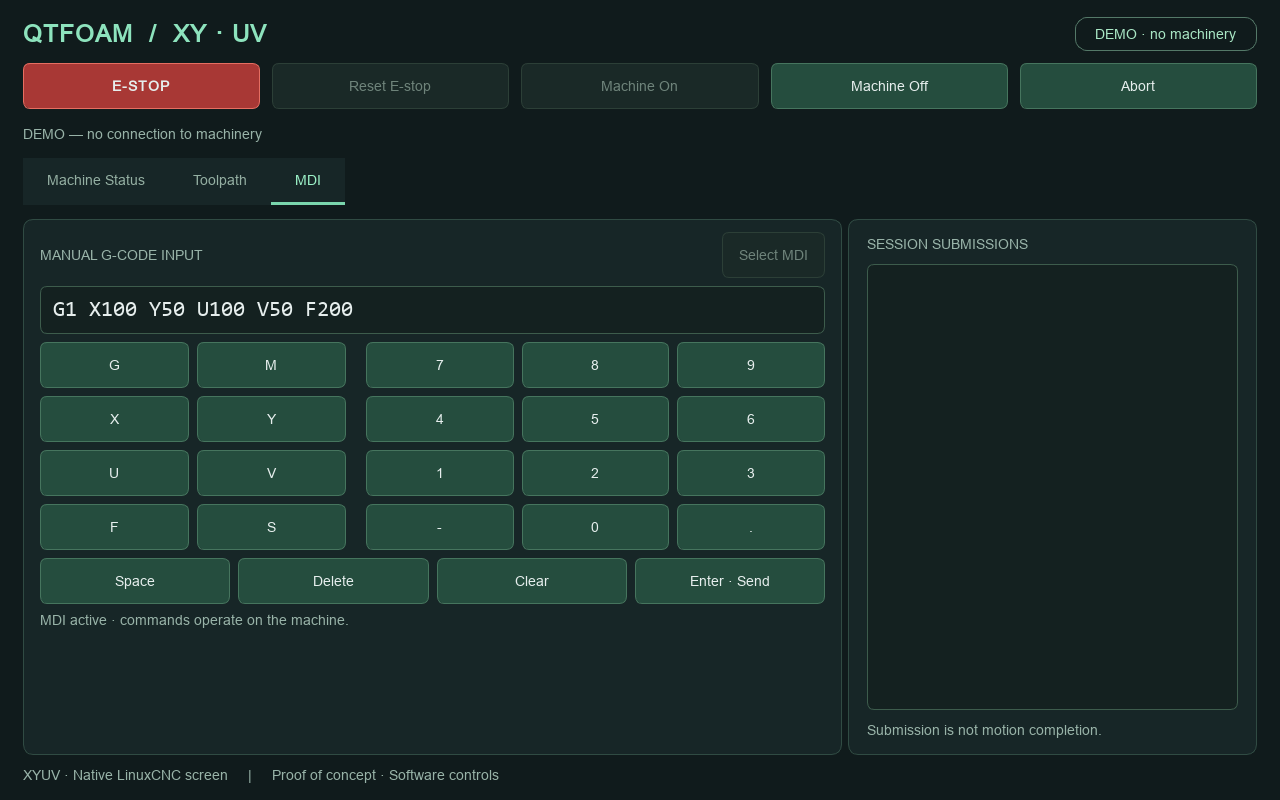
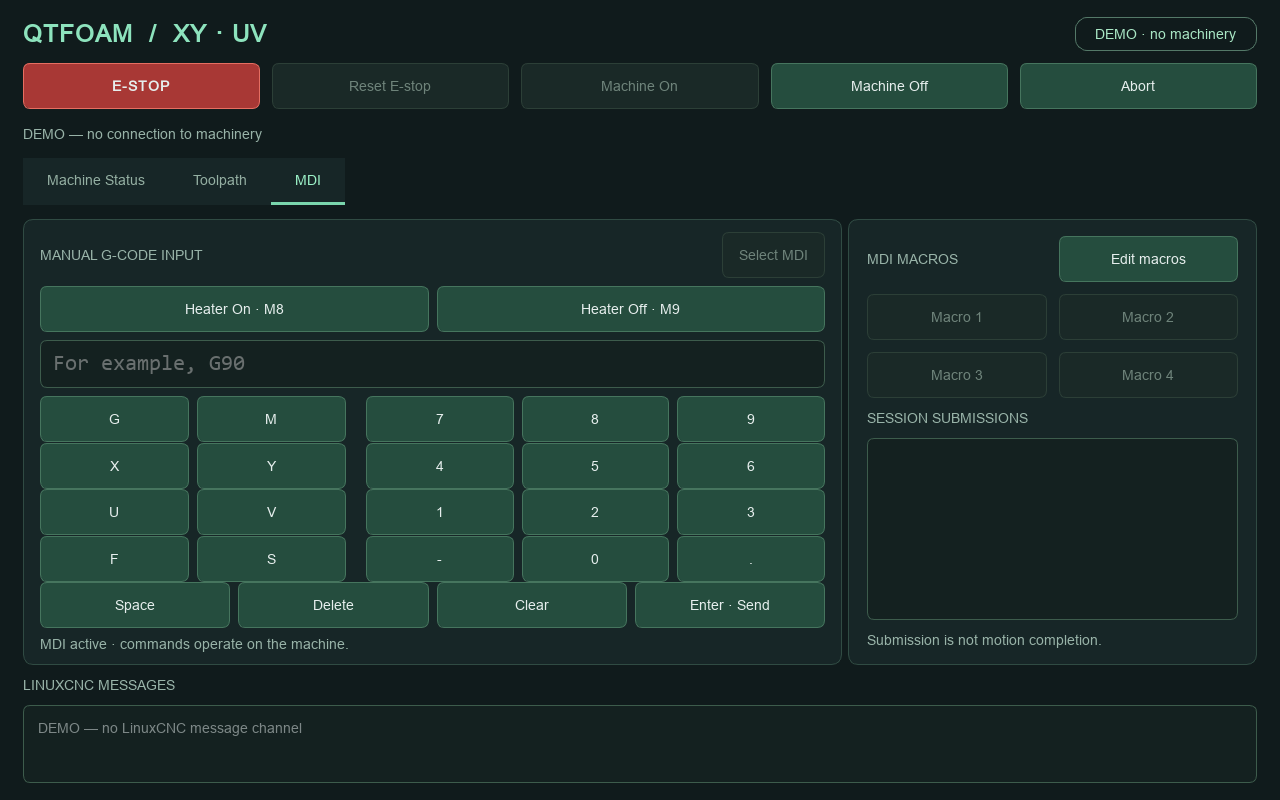
macro and heater buttons

diff --git a/qtfoam/screen.py b/qtfoam/screen.py
@@ -1,7 +1,7 @@
 """Shared native screen, hosted by QtVCP or the disconnected demo."""
 from pathlib import Path
 from PyQt5 import QtCore, QtWidgets
-from .model import AXES, permissions
+from .model import AXES, permissions, validate_mdi
 from .wire import WireView
 from .preview import read_source
 from .preview_job import PreviewJob
@@ -30,6 +30,16 @@ class Screen(QtWidgets.QWidget):
         self.buttons = {}
         self.data = None
         self.history = []
+        self.settings = QtCore.QSettings('QtFoam', 'Demo' if demo else 'QtFoam')
+        self.macros = []
+        for index in range(4):
+            name = str(self.settings.value(f'macros/{index}/name', f'Macro {index+1}'))
+            command = str(self.settings.value(f'macros/{index}/command', ''))
+            try:
+                command = validate_mdi(command) if command else ''
+            except ValueError:
+                command = ''
+            self.macros.append((name[:24] or f'Macro {index+1}', command))
         self.closing = False
         self.preview_context = None
         self.preview_source = []
@@ -300,6 +310,14 @@ class Screen(QtWidgets.QWidget):
         heading.addStretch()
         heading.addWidget(self.button('Select MDI', 'mdi_mode'))
         body.addLayout(heading)
+        heater = QtWidgets.QHBoxLayout()
+        self.heater_buttons = []
+        for title, command in [('Heater On · M8', 'M8'), ('Heater Off · M9', 'M9')]:
+            button = QtWidgets.QPushButton(title)
+            button.clicked.connect(lambda checked=False, command=command: self.send('mdi', text_override=command))
+            heater.addWidget(button)
+            self.heater_buttons.append(button)
+        body.addLayout(heater)
         self.mdi = QtWidgets.QLineEdit()
         self.mdi.setMaxLength(254)
         self.mdi.setPlaceholderText('For example, G90')
@@ -338,6 +356,21 @@ class Screen(QtWidgets.QWidget):
         body.addStretch()
         layout.addWidget(frame, 2)
         frame, body = card()
+        macro_heading = QtWidgets.QHBoxLayout()
+        macro_heading.addWidget(label('MDI MACROS', 'muted'))
+        edit_macros = QtWidgets.QPushButton('Edit macros')
+        edit_macros.clicked.connect(self.edit_macros)
+        macro_heading.addWidget(edit_macros)
+        body.addLayout(macro_heading)
+        macro_grid = QtWidgets.QGridLayout()
+        self.macro_buttons = []
+        for index in range(4):
+            button = QtWidgets.QPushButton()
+            button.clicked.connect(lambda checked=False, index=index: self.load_macro(index))
+            macro_grid.addWidget(button, index // 2, index % 2)
+            self.macro_buttons.append(button)
+        self.update_macro_buttons()
+        body.addLayout(macro_grid)
         body.addWidget(label('SESSION SUBMISSIONS', 'muted'))
         self.history_view = QtWidgets.QListWidget()
         self.history_view.itemDoubleClicked.connect(self.recall_mdi)
@@ -351,7 +384,64 @@ class Screen(QtWidgets.QWidget):
         self.mdi.setText(item.text())
         self.mdi.setFocus(QtCore.Qt.MouseFocusReason)
 
-    def send(self, action, axis=None):
+    def update_macro_buttons(self):
+        for button, (name, command) in zip(self.macro_buttons, self.macros):
+            button.setText(name)
+            button.setToolTip(command + '\nLoad into input; press Enter to send.' if command else 'Configure with Edit macros.')
+            button.setEnabled(bool(command))
+
+    def load_macro(self, index):
+        self.mdi.setText(self.macros[index][1])
+        self.mdi.setFocus(QtCore.Qt.MouseFocusReason)
+
+    def edit_macros(self):
+        dialog = QtWidgets.QDialog(self)
+        dialog.setWindowTitle('Edit MDI macros')
+        layout = QtWidgets.QVBoxLayout(dialog)
+        layout.addWidget(label('Each macro loads one G-code line into the input. Enter sends it.'))
+        grid = QtWidgets.QGridLayout()
+        grid.addWidget(label('Button name'), 0, 0)
+        grid.addWidget(label('G-code line'), 0, 1)
+        fields = []
+        for row, (name, command) in enumerate(self.macros, 1):
+            name_input = QtWidgets.QLineEdit(name)
+            name_input.setMaxLength(24)
+            command_input = QtWidgets.QLineEdit(command)
+            command_input.setMaxLength(254)
+            command_input.setMinimumWidth(320)
+            grid.addWidget(name_input, row, 0)
+            grid.addWidget(command_input, row, 1)
+            fields.append((name_input, command_input))
+        layout.addLayout(grid)
+        error = label('', 'muted')
+        layout.addWidget(error)
+        buttons = QtWidgets.QDialogButtonBox(QtWidgets.QDialogButtonBox.Save | QtWidgets.QDialogButtonBox.Cancel)
+        def save():
+            macros = []
+            try:
+                for index, (name_input, command_input) in enumerate(fields):
+                    command = command_input.text()
+                    macros.append((name_input.text().strip() or f'Macro {index+1}',
+                                   validate_mdi(command) if command.strip() else ''))
+            except ValueError as exc:
+                error.setText(str(exc))
+                return
+            for index, (name, command) in enumerate(macros):
+                self.settings.setValue(f'macros/{index}/name', name)
+                self.settings.setValue(f'macros/{index}/command', command)
+            self.settings.sync()
+            if self.settings.status() != QtCore.QSettings.NoError:
+                error.setText('Could not save macro settings.')
+                return
+            self.macros = macros
+            self.update_macro_buttons()
+            dialog.accept()
+        buttons.accepted.connect(save)
+        buttons.rejected.connect(dialog.reject)
+        layout.addWidget(buttons)
+        dialog.exec_()
+
+    def send(self, action, axis=None, text_override=None):
         if action == 'abort_run':
             action = 'abort'
         try:
@@ -359,7 +449,7 @@ class Screen(QtWidgets.QWidget):
                 if action not in ('estop','off','abort'):
                     raise ValueError('Wait for preview interpretation or cancel it first')
                 self.preview_job.cancel('Preview cancelled by machine control')
-            text = self.mdi.text() if action == 'mdi' else None
+            text = (self.mdi.text() if text_override is None else text_override) if action == 'mdi' else None
             self.backend.execute(action, axis=axis, text=text)
             self.message.setText(('DEMO · ' if self.demo else '') + 'Submitted: ' + action + (' ' + axis if axis else ''))
             if action == 'mdi':
@@ -367,7 +457,8 @@ class Screen(QtWidgets.QWidget):
                 self.history = self.history[:30]
                 self.history_view.clear()
                 self.history_view.addItems(self.history)
-                self.mdi.clear()
+                if text_override is None:
+                    self.mdi.clear()
         except Exception as exc:
             self.message.setText(str(exc))
         self.refresh()
@@ -399,6 +490,8 @@ class Screen(QtWidgets.QWidget):
             button.setEnabled(available.get(action, False) or
                               (not self.demo and action in ('estop','off','abort','abort_run')))
         self.mdi.setEnabled(available['mdi'])
+        for button in self.heater_buttons:
+            button.setEnabled(available['mdi'])
         for button in self.mdi_keys:
             button.setEnabled(available['mdi'])
         data = self.data

diff --git a/tests/test_screen.py b/tests/test_screen.py
@@ -49,6 +49,35 @@ class ScreenTests(unittest.TestCase):
             QtTest.QTest.qWait(10)
         self.assertFalse(screen.preview_job.busy, 'Preview subprocess did not complete')
 
+    def test_macro_loads_without_sending_and_heater_preserves_draft(self):
+        from unittest.mock import Mock
+        backend = DemoBackend()
+        screen = Screen(backend, demo=True)
+        self.addCleanup(screen.cleanup)
+        screen.send('reset')
+        screen.send('on')
+        screen.send('mdi_mode')
+        backend.execute = Mock(wraps=backend.execute)
+        screen.macros = [('Cut', 'G1 X100 U100 F200'), ('Return', 'G0 X0 U0'),
+                         ('Empty', ''), ('Empty', '')]
+        screen.update_macro_buttons()
+        screen.mdi.setText('G90')
+        screen.macro_buttons[0].click()
+        self.assertEqual(screen.mdi.text(), 'G1 X100 U100 F200')
+        screen.macro_buttons[1].click()
+        self.assertEqual(screen.mdi.text(), 'G0 X0 U0')
+        backend.execute.assert_not_called()
+        for button, command in zip(screen.heater_buttons, ('M8', 'M9')):
+            button.click()
+            backend.execute.assert_called_with('mdi', axis=None, text=command)
+            self.assertEqual(screen.mdi.text(), 'G0 X0 U0')
+            self.assertEqual(screen.history[0], command)
+        screen.send('mdi')
+        backend.execute.assert_called_with('mdi', axis=None, text='G0 X0 U0')
+        self.assertEqual(screen.mdi.text(), '')
+        screen.send('off')
+        self.assertTrue(all(not button.isEnabled() for button in screen.heater_buttons))
+
     def test_demo_preview_subprocess_slider_and_source_mapping(self):
         screen = Screen(DemoBackend(),demo=True)
         self.addCleanup(screen.cleanup)

diff --git a/README.md b/README.md
@@ -191,6 +191,13 @@ Use one operator interface at a time during validation.
 
 ## G-code preview
 
+The MDI tab has four configurable macro buttons. **Edit macros** sets each
+button's name and single G-code line; settings persist for the current user
+(demo settings are separate). Clicking a macro replaces the input line;
+review or edit it and press Enter to send. A blank macro is disabled.
+**Heater On · M8** and **Heater Off · M9** submit immediately when MDI is
+available, retain any draft input, and appear in Session Submissions.
+
 Open **Toolpath**, press **Load and Preview**, and select a UTF-8 `.nc` or `.ngc`
 file. Try `examples/xyuv-preview.ngc` for a visible shape or
 `examples/devwing-preview.nc` for a Devwing G93 sample. These are preview fixtures,
